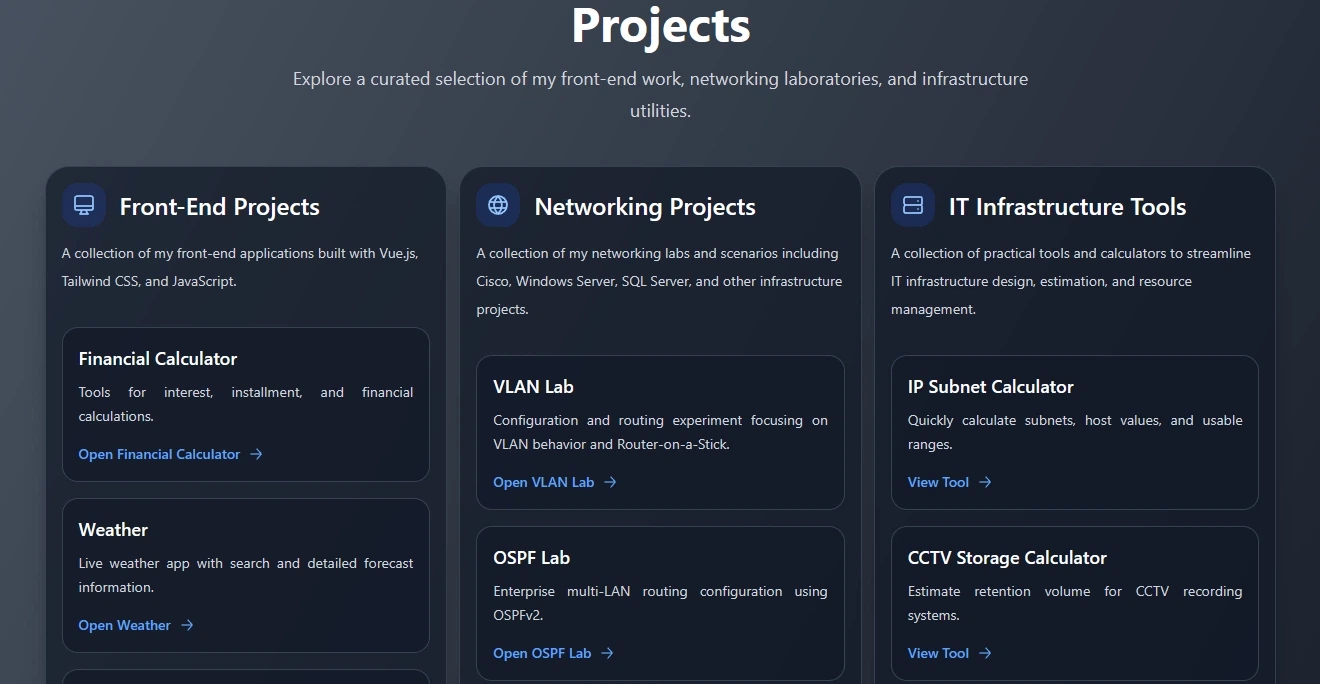
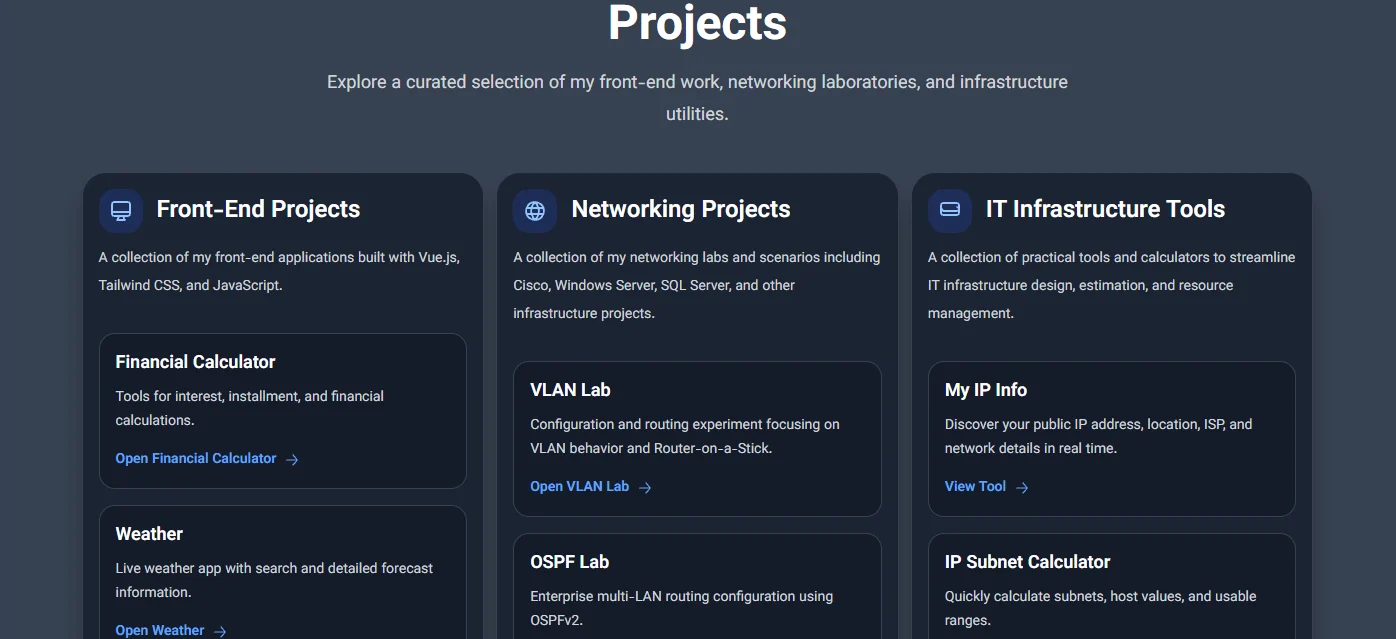
Modifying projectsData, sitemap, and readme files

diff --git a/src/i18n.js b/src/i18n.js
@@ -158,7 +158,7 @@ const messages = {
                 title: 'IT Infrastructure Tools',
                 description: 'A collection of practical tools and calculators to streamline IT infrastructure design, estimation, and resource management.',
                 items: {
-                    MyIPInfo: {
+                    ipLookup: {
                         title: 'My IP Info',
                         description: 'Discover your public IP address, location, ISP, and network details in real time.',
                         link: 'View Tool',
@@ -2171,7 +2171,7 @@ const messages = {
                 title: 'ابزارهای زیرساخت IT',
                 description: 'مجموعه ابزارها و محاسبات کاربردی برای تسهیل و شتاببخشی به فرآیندهای طراحی، تخمین و مدیریت زیرساختهای IT.',
                 items: {
-                    MyIPInfo: {
+                    ipLookup: {
                         title: 'اطلاعات IP من',
                         description: 'نمایش لحظهای آدرس IP عمومی، موقعیت جغرافیایی، ارائه دهنده اینترنت (ISP) و جزئیات شبکه.',
                         link: 'مشاهده ابزار',

diff --git a/src/views/Projects.vue b/src/views/Projects.vue
@@ -146,10 +146,10 @@
         </p>
         <div class="mt-8 grid gap-4">
           <ProjectLinkCard :title="$t(
-            'projectsPage.itInfrastructureTools.items.MyIPInfo.title')" 
-            :description="$t('projectsPage.itInfrastructureTools.items.MyIPInfo.description')" 
+            'projectsPage.itInfrastructureTools.items.ipLookup.title')" 
+            :description="$t('projectsPage.itInfrastructureTools.items.ipLookup.description')" 
             to="/Projects/IT-Infrastructure-Tools/My-IP-Info" 
-              :link-text="$t('projectsPage.itInfrastructureTools.items.MyIPInfo.link')" />
+              :link-text="$t('projectsPage.itInfrastructureTools.items.ipLookup.link')" />
           <ProjectLinkCard :title="$t(
             'projectsPage.itInfrastructureTools.items.subnetCalculator.title')" 
             :description="$t('projectsPage.itInfrastructureTools.items.subnetCalculator.description')" 

diff --git a/src/data/projectsData.js b/src/data/projectsData.js
@@ -133,6 +133,13 @@ export const projects = [
         path: '/Projects/Networking/SqlServerLab',
     },
     {
+        id: 'ip-lookup',
+        category: 'itInfrastructureTools',
+        titleKey: 'projectsPage.itInfrastructureTools.items.ipLookup.title',
+        descriptionKey: 'projectsPage.itInfrastructureTools.items.ipLookup.description',
+        path: '/Projects/IT-Infrastructure-Tools/ip-lookup',
+    },
+    {
         id: 'ip-subnet-calculator',
         category: 'itInfrastructureTools',
         titleKey: 'projectsPage.itInfrastructureTools.items.subnetCalculator.title',

diff --git a/README.md b/README.md
@@ -10,7 +10,7 @@ A modern bilingual portfolio website built to showcase my IT skills, projects, a
 
 ## 🚀 Live Portfolio
 
-https://obkworks.tr
+https://www.obkworks.tr
 
 ---
 
@@ -37,11 +37,11 @@ The project is fully responsive and supports both Persian (RTL) and English (LTR
 - 📱 Responsive Design
 - 🌦 Weather Application
 - 📅 Date & Time Utilities
-- 🧮 IT Infrastructure Tools
+- 🧮 IT Infrastructure Tools (Subnet Calculator, IP Info, RAID, CCTV Storage, etc.)
 - 📚 Technical Articles
 - 💻 Front-end Projects
 - 🌐 Network Projects
-- 🔐 Secure Weather API using Cloudflare Pages Functions
+- 🔐 Secure API integration via Vercel
 
 ---
 
@@ -65,6 +65,7 @@ The project is fully responsive and supports both Persian (RTL) and English (LTR
 
 ### APIs
 
+- IPInfo API (Public IP, GeoLocation & ISP Details)
 - OpenWeatherMap API
 - ExchangeRate API
 
@@ -99,6 +100,7 @@ The project is fully responsive and supports both Persian (RTL) and English (LTR
 
 ### IT Infrastructure Tools
 
+- My IP Info
 - IP Subnet Calculator
 - CCTV Storage Calculator
 - RAID Calculator
